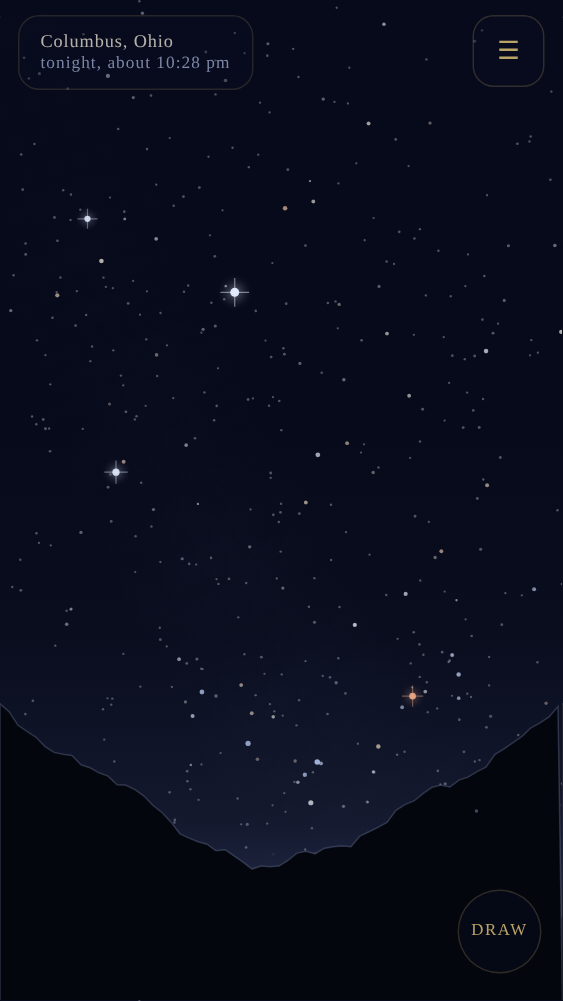
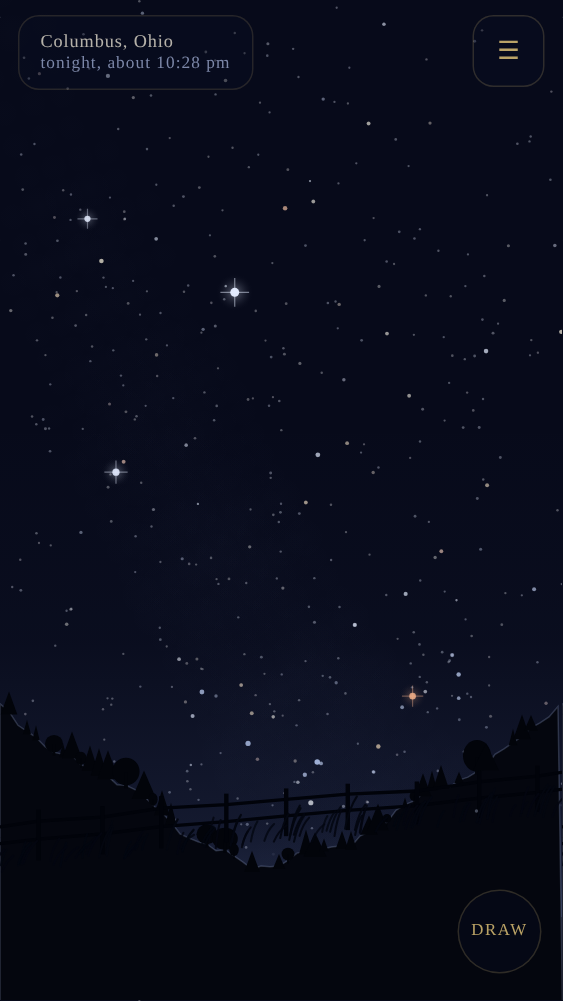
Asterism C1: a treeline on the ridge and a fence in the field, so the land is a place
The look pass named the bottom quarter of a tall phone as a flat field. The
ridge was drawn and then nothing stood on it and nothing was nearer than it.
Trees on the ridge, and a fence across the lower band with the grass thicker at
the feet of its posts, both seeded from the PLACE because this file's own
promise is that a place gets the same horizon every night.

The first foreground was a row of grass heads at one height and one spacing and
it read as a barcode. A foreground needs a reason to be there, which is what
Whistlestop's unmotivated props taught.

The gate measures a colour class rather than a region, after three goes: any
band that has to be right at three aspect ratios kept measuring the sky's
gradient or missing the fence. Anything standing on the land is darker than the
land. 3.9 percent with it, exactly zero without, at all three sizes.

Nine gates green. Stamp 20260907b.

Claude-Session: https://claude.ai/code/session_018DB4RoSYktXhZkZcaK82Vg

diff --git a/satellites/asterism/index.html b/satellites/asterism/index.html
@@ -9,9 +9,9 @@
 <meta name="apple-mobile-web-app-capable" content="yes">
 <meta name="apple-mobile-web-app-status-bar-style" content="black-translucent">
 <meta name="apple-mobile-web-app-title" content="ASTERISM">
-<link rel="manifest" href="./manifest.webmanifest?v=20260907a">
-<link rel="apple-touch-icon" href="./icon-192.png?v=20260907a">
-<link rel="icon" href="./icon-192.png?v=20260907a">
+<link rel="manifest" href="./manifest.webmanifest?v=20260907b">
+<link rel="apple-touch-icon" href="./icon-192.png?v=20260907b">
+<link rel="icon" href="./icon-192.png?v=20260907b">
 <link rel="canonical" href="https://lucidwinds.com/satellites/asterism/">
 <style>
 /*  ASTERISM
@@ -163,7 +163,7 @@ input:focus{outline:1px solid var(--gold)}
 .fail{color:#ff8080}.pass{color:#9be36b}
 @media (prefers-reduced-motion:reduce){*{transition-duration:1ms!important}}
 </style>
-<script src="/music-unlocks.js?v=20260907a" defer></script>
+<script src="/music-unlocks.js?v=20260907b" defer></script>
 </head>
 <body>
 <h1 style="position:absolute;width:1px;height:1px;margin:-1px;padding:0;overflow:hidden;clip:rect(0 0 0 0);clip-path:inset(50%);white-space:nowrap;border:0">ASTERISM</h1>
@@ -1248,6 +1248,9 @@ function drawGround(g) {
     maxY = Math.max(maxY, horizonPts[i][1]);
   }
   if (minY > CSSH) return;
+  /* where the land is unambiguously land, for the gate that measures whether
+     anything is drawn on it */
+  G.groundTop = maxY;
   g.beginPath();
   g.moveTo(0, CSSH + 4);
   for (i = 0; i < horizonPts.length; i++) g.lineTo(horizonPts[i][0], horizonPts[i][1]);
@@ -1269,6 +1272,100 @@ function drawGround(g) {
   g.fillStyle = '#04060E';
   g.fill();
   g.strokeStyle = 'rgba(150,165,205,.26)'; g.lineWidth = 1; g.stroke();
+  drawTreeline(g, horizonPts);
+}
+/* ⛔ THE BOTTOM QUARTER OF A TALL PHONE WAS ONE FLAT FIELD. On the look pass it
+   was named as the spare band Airworthy, Doohickey and Inkswing all had: the
+   ridge is drawn, and then nothing stands on it and nothing is nearer than it,
+   so the land is a colour rather than a place. A treeline on the ridge and a
+   fringe of nearer ground give the band two planes and a foot.
+   ⛔ SEEDED FROM THE PLACE, not from the clock, because this file's own promise
+   two functions up is that "a place gets the same horizon every night". Move to
+   another city and the trees are different; come back tomorrow and they are the
+   ones you saw. */
+function drawTreeline(g, pts) {
+  if (!pts.length) return;
+  var r = makeRNG(seedFromString('trees:' + G.place.name + ':' + Math.round(G.place.lat * 100)));
+  var i, n = pts.length;
+  g.fillStyle = '#02040A';
+  /* the trees, standing on the ridge. Two kinds, and both are drawn as a
+     silhouette rather than as a shape with an edge, because at this distance a
+     tree is a hole in the sky. */
+  for (i = 0; i < n; i++) {
+    if (r() > 0.62) continue;
+    var x = pts[i][0], y = pts[i][1];
+    if (y > CSSH + 2 || y < -20) continue;
+    var h = (5 + r() * 16) * (CSSW / 412);
+    var w = h * (0.30 + r() * 0.26);
+    if (r() < 0.55) {
+      /* a conifer: a spike */
+      g.beginPath();
+      g.moveTo(x - w, y + 2);
+      g.lineTo(x, y - h);
+      g.lineTo(x + w, y + 2);
+      g.closePath(); g.fill();
+    } else {
+      /* a round crown on a short trunk */
+      g.beginPath();
+      g.ellipse(x, y - h * 0.55, w * 1.15, h * 0.55, 0, 0, Math.PI * 2);
+      g.fill();
+      g.fillRect(x - w * 0.16, y - h * 0.5, w * 0.32, h * 0.5 + 2);
+    }
+  }
+  /* ⛔ AND THE NEAR GROUND IS A FENCE, not a scatter. The first go at this put a
+     row of grass heads along the bottom edge at one height and one spacing and
+     it read as a barcode, and it left two hundred and forty pixels of flat
+     ground between it and the trees. A foreground needs a REASON to be there,
+     the same lesson Whistlestop's props taught: you are standing at the edge of
+     a field looking up, so there is a fence, and the grass grows thicker where
+     it meets the posts. One object with a middle plane, not props. */
+  drawFence(g, r);
+}
+function drawFence(g, r) {
+  var i, j;
+  /* the fence runs across the lower band, a little off level, and its far end
+     is higher because it is further away */
+  var y0 = CSSH * 0.86, y1 = CSSH * 0.80, span = CSSW + 40;
+  var posts = [], step = 46 * (CSSW / 412);
+  for (i = -20; i < span; i += step) {
+    var u = (i + 20) / span;
+    posts.push({ x: i + r() * 5, y: y0 + (y1 - y0) * u, h: (26 + r() * 9) * (CSSW / 412) });
+  }
+  /* the two rails first, behind the posts */
+  g.strokeStyle = '#01030A'; g.lineWidth = 2.4 * (CSSW / 412); g.lineCap = 'round';
+  for (j = 0; j < 2; j++) {
+    g.beginPath();
+    for (i = 0; i < posts.length; i++) {
+      var p = posts[i], ry = p.y - p.h * (j ? 0.34 : 0.74);
+      if (i) g.lineTo(p.x, ry); else g.moveTo(p.x, ry);
+    }
+    g.stroke();
+  }
+  /* the posts */
+  g.fillStyle = '#01030A';
+  for (i = 0; i < posts.length; i++) {
+    var q = posts[i], w = 3.2 * (CSSW / 412);
+    g.fillRect(q.x - w / 2, q.y - q.h, w, q.h + 4);
+  }
+  /* the grass, in clumps, thicker at the feet of the posts and sparse between,
+     and it leans one way because there is weather */
+  g.lineWidth = 1.5 * (CSSW / 412);
+  for (i = 0; i < posts.length; i++) {
+    var f = posts[i], blades = 5 + Math.round(r() * 7);
+    for (j = 0; j < blades; j++) {
+      var bx = f.x + (r() - 0.5) * step * 0.9;
+      var by = f.y + 3 + r() * 5;
+      var near = 1 - Math.min(1, Math.abs(bx - f.x) / (step * 0.5));
+      var bh = (5 + r() * 9 + near * 11) * (CSSW / 412);
+      var lean = 3 + r() * 6;
+      g.strokeStyle = 'rgba(3,6,16,' + (0.7 + 0.3 * near).toFixed(2) + ')';
+      g.beginPath();
+      g.moveTo(bx, by);
+      g.quadraticCurveTo(bx + lean * 0.35, by - bh * 0.65, bx + lean, by - bh);
+      g.stroke();
+    }
+  }
+  g.lineCap = 'butt';
 }
 /* the offscreen star layer */
 function renderLayer() {
@@ -2134,7 +2231,7 @@ function suitePurity(T, src) {
 // ---- TEST_EXPORT_END ----
 
 /* ========================= 13. BOOT ========================= */
-var STAMP = '20260907a';
+var STAMP = '20260907b';
 var G = {
   cat: null, place: null, whenMs: 0, mode: 'tonight',
   view: { alt: 55, az: 180, fov: CONFIG.FOV_DEFAULT },
@@ -2771,6 +2868,34 @@ function boot() {
    Nothing here drives the app: every gate presses the real element. */
 window.ASTERISM_DEV = {
   stamp: STAMP,
+  /* ⛔ HOW MUCH IS ACTUALLY IN THE BOTTOM BAND. On the look pass the lower
+     quarter of a tall phone was named as a flat field: the ridge is drawn and
+     then nothing stands on it and nothing is nearer than it, so the land is a
+     colour rather than a place. No assertion in this game could see that,
+     because they are all about stars, positions and copy. This counts, in the
+     bottom quarter, how many pixels differ from the most common colour there,
+     which is exactly "is anything drawn on the ground". */
+  groundInk: function () {
+    /* ⛔ THE MEASURE IS A COLOUR CLASS, NOT A REGION, and it took three goes.
+       Counting how many pixels differ from the modal colour in a band read 21.5
+       against 19.2 at 375 over the bottom quarter, 22.9 against 19.9 over 0.78
+       to 0.94, and NOTHING AT ALL over the band anchored to the ridge's foot:
+       the first two still held sky, whose gradient dominated the count, and the
+       third excluded the fence entirely at the shorter sizes because the ridge
+       dips lower there. A region that has to be right at three aspect ratios is
+       the wrong tool. Anything STANDING on the land is darker than the land, at
+       any size and wherever the ridge happens to fall, so that is what is
+       counted. It is a class and not a constant: paint the trees a different
+       dark and it still holds. */
+    var y0 = Math.round(CSSH * 0.5 * DPR);
+    var d = CTX.getImageData(0, y0, CV.width, CV.height - y0).data, i, off = 0, tot = 0;
+    for (i = 0; i < d.length; i += 4 * 7) {
+      tot++;
+      if (d[i] + d[i + 1] + d[i + 2] <= 20) off++;
+    }
+    return { off: Math.round(off * 7), tot: Math.round(tot * 7),
+      pct: tot ? +(off / tot * 100).toFixed(2) : 0 };
+  },
   frames: function () { return G.frames; },
   ready: function () { return !!G.cat; },
   screen: function () { return G.screen; },

diff --git a/satellites/asterism/sw.js b/satellites/asterism/sw.js
@@ -12,7 +12,7 @@
    Bump SHELL_VERSION on every deploy, AND the ?v= on the registration in
    index.html in lockstep — this host edge-pins bare sw.js URLs for 7 days. */
 
-const SHELL_VERSION = "asterism-shell-20260907a";
+const SHELL_VERSION = "asterism-shell-20260907b";
 const SFX_CACHE     = "asterism-unused-v1"; // no recorded audio: every sound is synthesised
 const NAV_TIMEOUT_MS = 8000;
 
@@ -24,7 +24,7 @@ const SHELL_ASSETS = [
   "./icon-512.png",
   "./icon-maskable-512.png",
   /* the sky itself: without this the app opens to an empty dome offline */
-  "./data/hyg-asterism.json?v=20260907a"
+  "./data/hyg-asterism.json?v=20260907b"
 ];
 
 self.addEventListener("install", event => {

diff --git a/satellites/asterism/docs/DECISIONS.md b/satellites/asterism/docs/DECISIONS.md
@@ -102,3 +102,31 @@ down the screen, so the real stars, the real Milky Way and the real horizon are 
 words and the words are still comfortably readable over them. The three lines are centred
 under the title as well; left aligned against a centred word the block read lopsided. The
 layout gate is unchanged and green: nothing moved, only what is behind it.
+
+**D-C1 (2026-09-07, Opus) — something stands on the land.** The look pass named the bottom
+quarter of a tall phone as a flat field, the same spare band Airworthy, Doohickey and Inkswing
+all had. The ridge was drawn and then nothing stood on it and nothing was nearer than it, so the
+land was a colour rather than a place.
+- **A treeline on the ridge**, conifers and round crowns as silhouettes, because at that distance
+  a tree is a hole in the sky.
+- **A fence across the lower band**, with two rails and posts, running a little off level and
+  higher at its far end because it is further away, and the grass grows thicker at the feet of
+  the posts.
+⛔ SEEDED FROM THE PLACE, never from the clock, because this file's own promise is that "a place
+gets the same horizon every night".
+⛔ AND THE FIRST FOREGROUND WAS A ROW OF GRASS HEADS at one height and one spacing along the
+bottom edge, which read as a barcode and left two hundred and forty pixels of flat ground between
+it and the trees. A foreground needs a REASON to be there, which is the lesson Whistlestop's
+unmotivated props taught: you are standing at the edge of a field looking up, so there is a
+fence, and it is one object with a middle plane rather than a scatter.
+
+**D-C1b (2026-09-07, Opus) — the gate measures a COLOUR CLASS, not a region, and it took three
+goes to see that.** Counting how many pixels differ from the modal colour in a band read 21.5
+against 19.2 at 375 over the bottom quarter, then 22.9 against 19.9 over 0.78 to 0.94, then
+NOTHING AT ALL over a band anchored to the ridge's own foot: the first two still held sky, whose
+gradient dominated the count, and the third excluded the fence entirely at the shorter sizes
+because the ridge dips lower there. A region that has to be right at three aspect ratios is the
+wrong tool. Anything STANDING on the land is darker than the land, wherever the ridge falls, so
+that is what is counted: 3.89, 4.09 and 4.11 percent with the furniture and exactly zero without,
+at all three sizes. It is a class and not a constant, so painting the trees a different dark
+still holds it.
